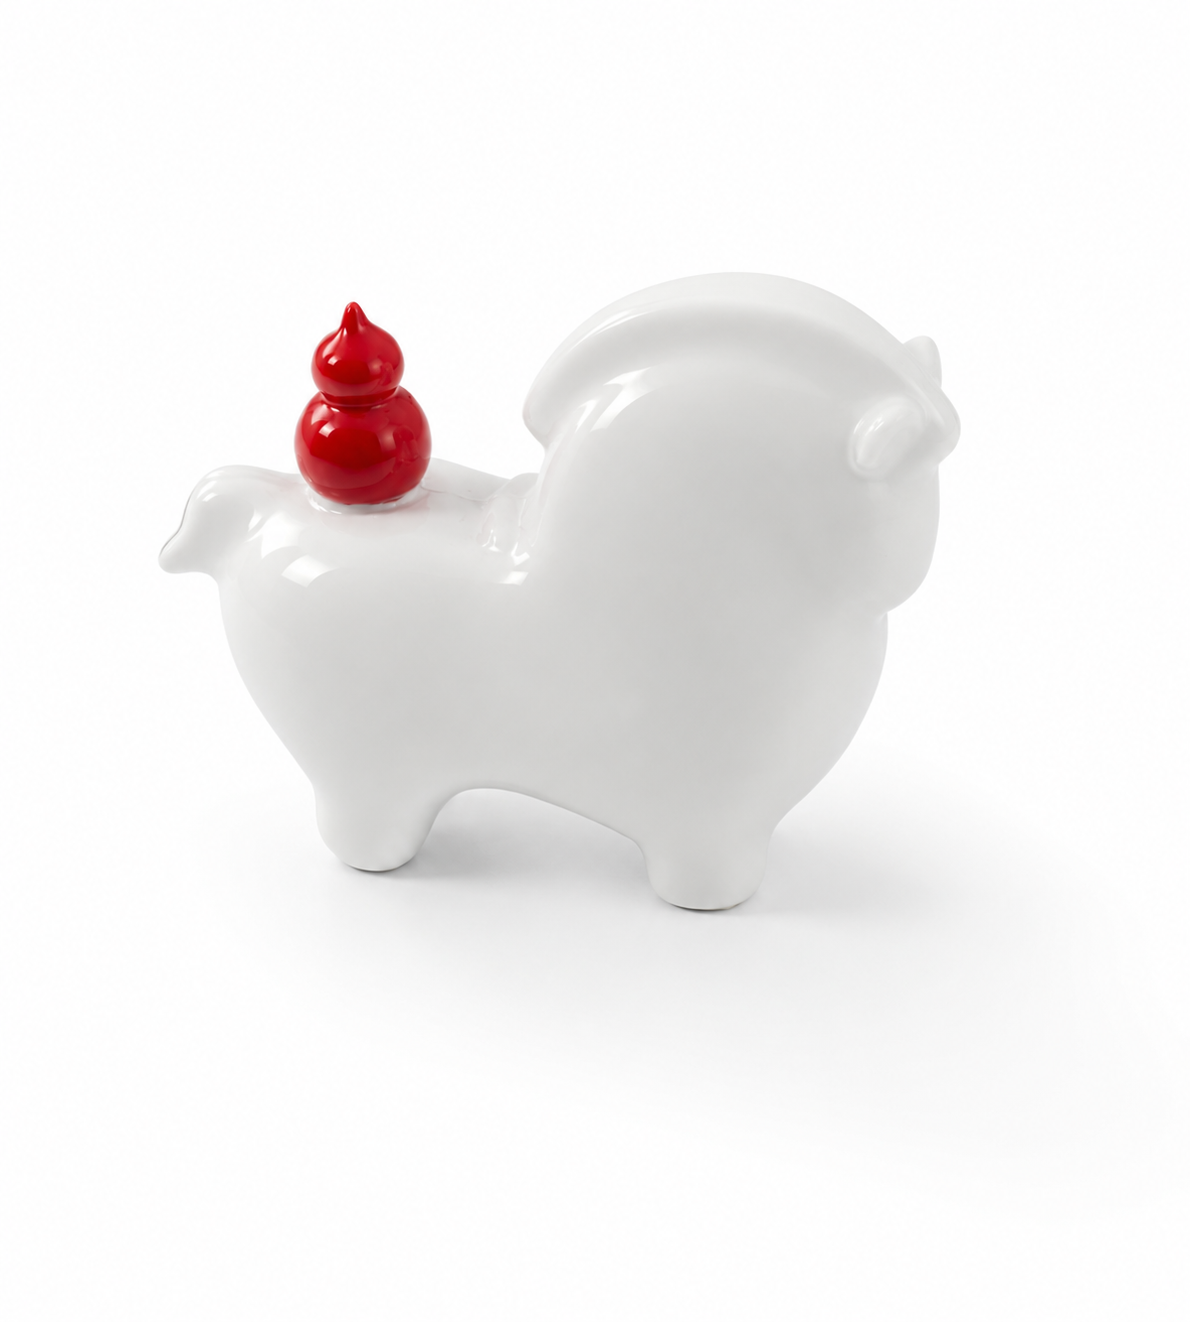
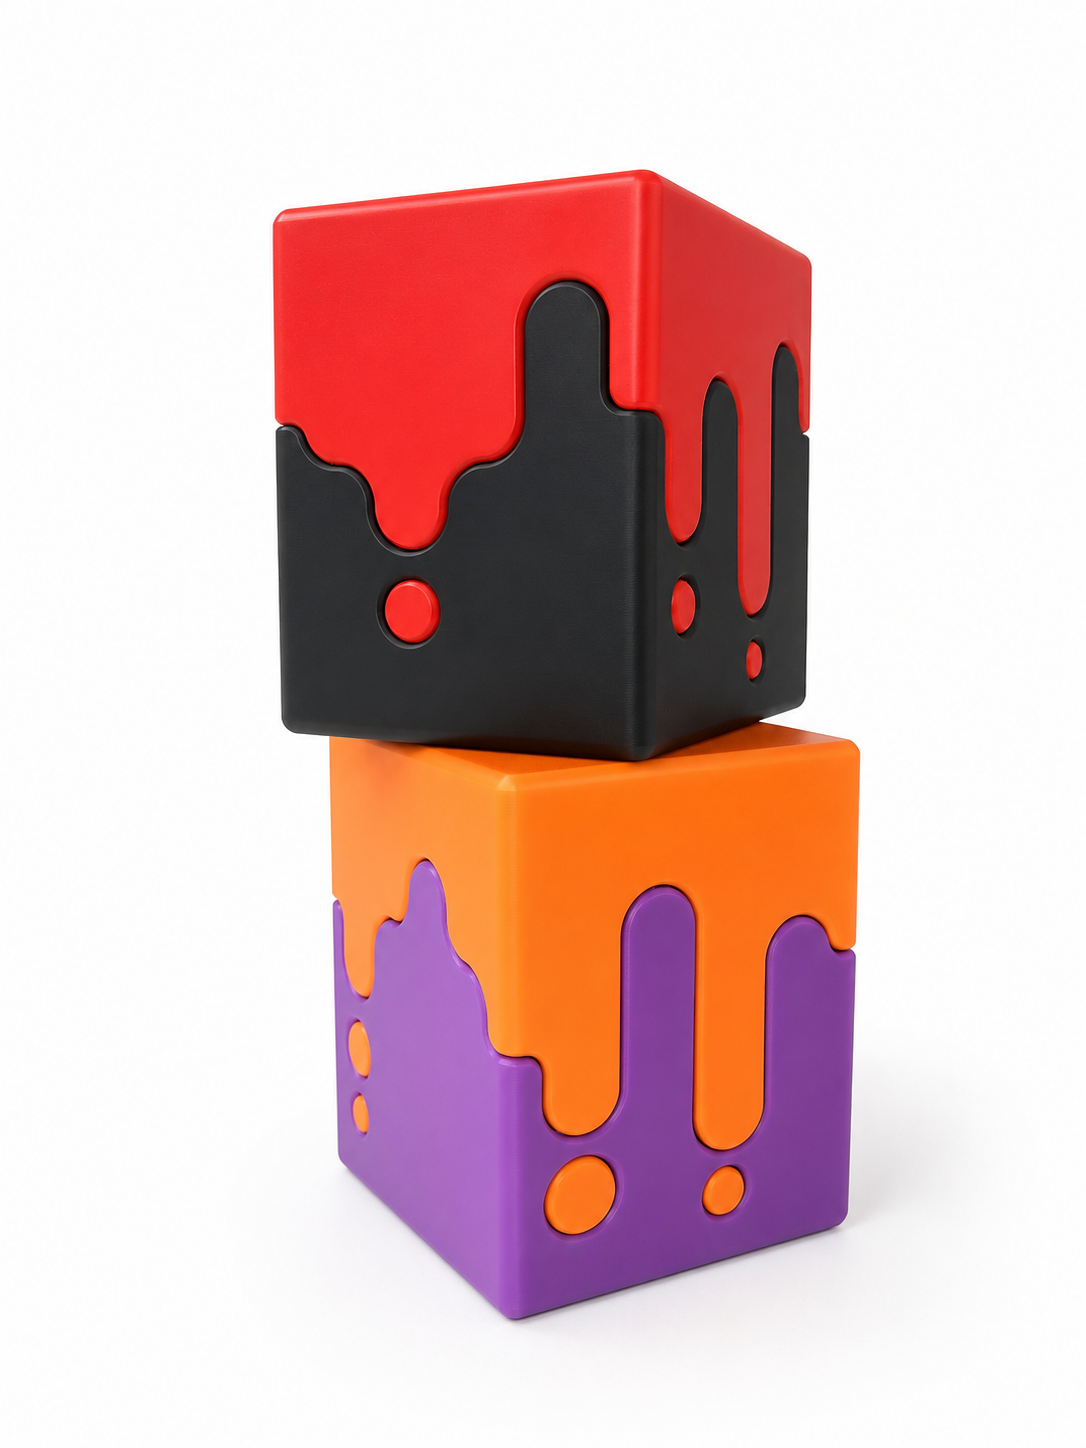
Images

diff --git a/index.html b/index.html
@@ -34,15 +34,16 @@ permalink: /
           <span class="work-tag">Juegos de mesa</span>
         </div>
       </div>
- <div class="work-card">
-  <div class="work-img-wrap">
-    <img src="{{ '/assets/images/work/pieza-02.png' | relative_url }}" alt="Figura decorativa acabado glass">
+<div class="work-card">
+        <div class="work-img-wrap">
+          <div class="work-img-wrap">
+    <img src="{{ '/assets/images/work/pieza-02.png' | relative_url }}" alt="Caja de cartas">
   </div>
-  <div class="work-meta">
-    <span class="work-title">Figura decorativa acabado glass</span>
-    <span class="work-tag">Decoración</span>
-  </div>
-</div>
+        </div>
+        <div class="work-meta">
+          <span class="work-title">Cajas para cartas Magic</span>
+          <span class="work-tag">Juegos de mesa</span>
+        </div>
 
     <div class="pf-row pf-row--trio">
       <div class="work-card">
@@ -62,4 +63,14 @@ permalink: /
         <div class="work-meta"><span class="work-title">Caja para cartas Magic con mecanismo de apertura</span><span class="work-tag">A medida</span></div>
       </div>
     </div>
+
+     <div class="work-card">
+  <div class="work-img-wrap">
+    <img src="{{ '/assets/images/work/pieza-06.png' | relative_url }}" alt="Figura decorativa acabado glass">
+  </div>
+  <div class="work-meta">
+    <span class="work-title">Figura decorativa acabado glass</span>
+    <span class="work-tag">Decoración</span>
+  </div>
+</div>
 </section>
